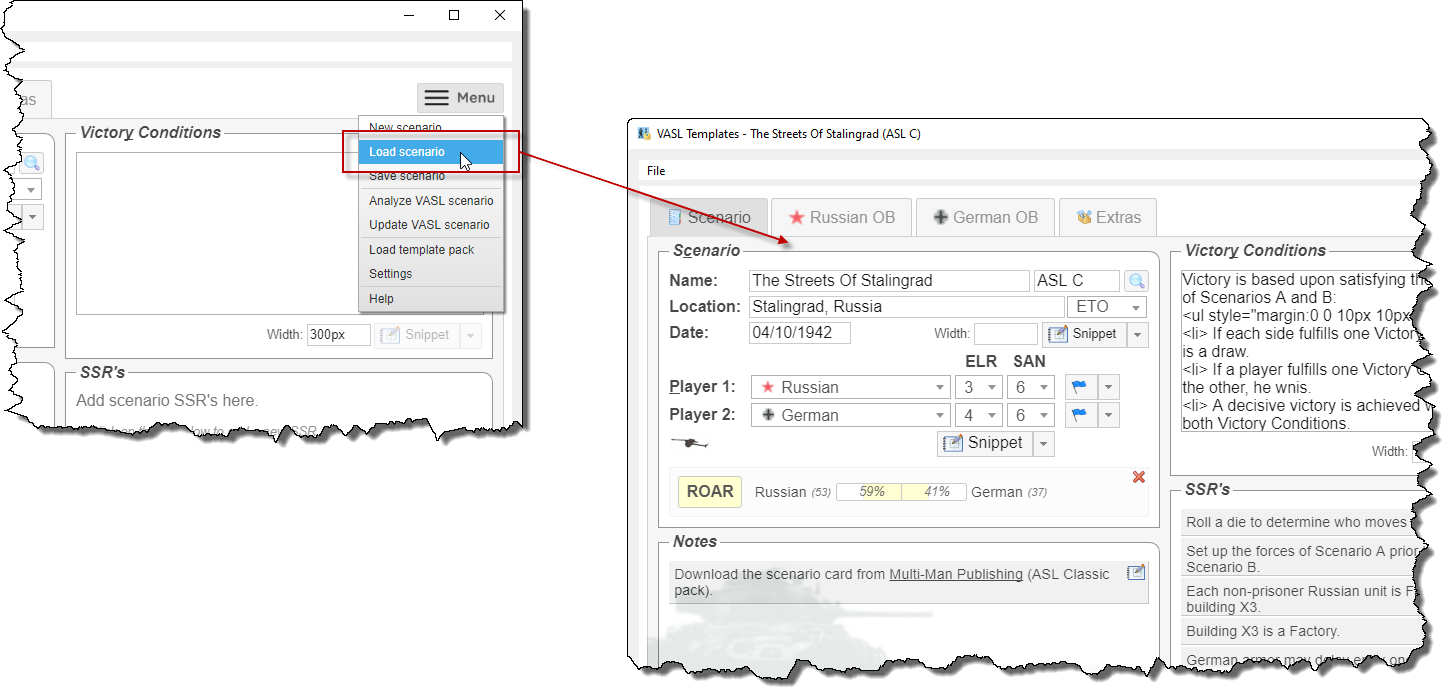
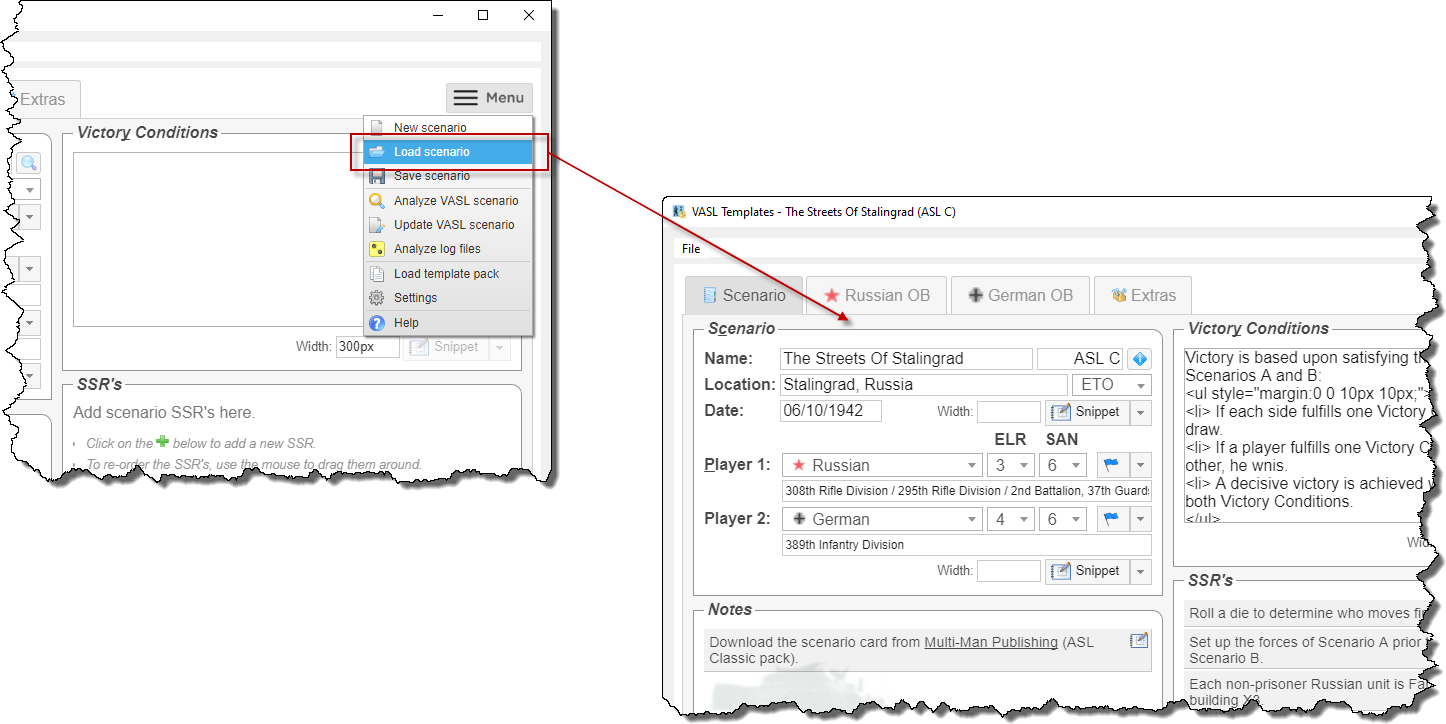
Updated the help.

diff --git a/vasl_templates/webapp/static/help/index.html b/vasl_templates/webapp/static/help/index.html
@@ -144,7 +144,9 @@ Configuring the program
 For the webdriver, download and unpack one of the following:
 <ul>
     <li> <a href="https://github.com/mozilla/geckodriver/releases">geckodriver</a> (you must have Firefox installed)
+        <div class="note"> Make sure to download the correct version (32- or 64-bit) for your browser (check the About box). </div>
     <li> <a href="http://chromedriver.chromium.org/downloads">chromedriver</a> (you must have Chrome installed)
+        <div class="note"> Make sure to download the version that corresponds to the version of Chrome you are running. </div>
 </ul>
 
 <h2> Setting up a scenario </h2>
@@ -152,11 +154,15 @@ For the webdriver, download and unpack one of the following:
 <p> <img src="images/quick-start/scenario-card.png" class="preview" style="float:right;">
 We'll set up <em>The Streets Of Stalingrad</em>, and the scenario card tells us that this is played on Board 1, so fire up VASL, add this board, then save the scenario somewhere (e.g. <tt>streets-of-stalingrad.vsav</tt>).
 <br clear=all>
+<br>
 
 <p> <img src="images/quick-start/load-scenario.png" class="preview" style="float:left;">
-In <em>vasl-templates</em>, open the save file for this scenario (<tt>The Streets Of Stalingrad (Scenario C).json</tt>; you'll find it in the <tt>examples/</tt> directory).
-<p> Browse through the tabs, and you'll see all the scenario details e.g. Victory Conditions, SSR's, setup instructions. The program also shows the latest results from <a href="http://www.jrvdev.com/ROAR/VER1/RecordByName.asp">ROAR</a>.
+In <em>VASL Templates</em>, open the save file for this scenario (<tt>The Streets Of Stalingrad (Scenario C).json</tt>; you'll find it in the <tt>examples/</tt> directory).
+<p> Browse through the tabs, and you'll see all the scenario details e.g. Victory Conditions, SSR's, setup instructions.
+<p> Click on the info icon in the top-right corner of the <em>Scenario</em> panel to get more detailed information about the scenario.
+<div class="info" style="float:right;"> This information is provided by the <a href="https://aslscenarioarchive.com">ASL Scenario Archive</a>. </div>
 <br clear=all>
+<br>
 
 <p> <img src="images/quick-start/update-scenario.png" class="preview" style="float:right;">
 We now want to create labels in the VASL scenario for all this information. Choose <em>Update VASL scenario</em> from the menu, and select the VASL scenario file you created earlier (e.g. <tt>streets-of-stalingrad.vsav</tt>). The program will now launch VASSAL to do the work, so be patient since it may take a minute or two, and you may see VASSAL momentarily appear on-screen.
@@ -167,12 +173,12 @@ In particular, note the data tables for the vehicles, which contain useful infor
 <h2> Including pictures in the labels </h2>
 
 <p> <img src="images/quick-start/user-settings.png" class="preview" style="float:right;">
-We can pretty-up the labels by including pictures in them. Open the <em>User Settings</em> dialog and turn on <em>Images in scenarios</em>.
+We can pretty-up the labels by including pictures in them. Open the <em>User Settings</em> dialog and turn on the <em>Images in scenarios</em> settings.
 <p> Update the VASL scenario again (as above), open it again in VASSAL, and you will see that the labels now include nationality flags, and the vehicle data tables show the counter images: <br>
 <img src="images/quick-start/images-in-labels.png" class="preview" style="margin:0.5em 0 0 2em;">
-<div class="warning"> Because images can't be stored inside a VASL scenario file, if you turn this option on, you must choose where VASSAL will get the images from:
+<div class="warning"> Because images can't be stored inside a VASL scenario file, if you turn these options on, you must choose where VASSAL will get the images from:
     <ul>
-        <li> <span style="border-bottom:1px solid #ccc;">From this program</span>: the <em>vasl-templates</em> program must be running before you open the scenario in VASSAL. If you are playing with someone online, they must have the program running as well.
+        <li> <span style="border-bottom:1px solid #ccc;">From this program</span>: the <em>VASL Templates</em> program must be running before you open the scenario in VASSAL. If you are playing with someone online, they must have the program running as well.
             <li> <span style="border-bottom:1px solid #ccc;">From the internet</span>: you must have a working internet connection when you open the scenario in VASSAL. There will be a short delay when opening the scenario, as VASSAL downloads the images.
     </ul>
 </div>
@@ -191,14 +197,16 @@ We can pretty-up the labels by including pictures in them. Open the <em>User Set
 
 <h2> Adding the scenario details </h2>
 
-<p> <img src="images/scenario.png" class="preview" style="width:20em;float:left;">
-First, we enter the basic details about the scenario.
-<p> Click on one of the <em>Snippet</em> buttons, and the program will generate an HTML snippet and put it into your clipboard, which you can then copy into a VASL label.
-<p> You can also click on the <em>Search ROAR</em> button, to look for a scenario in ROAR. The basic details for the scenario will be loaded, along with the latest results.
+<p> <img src="images/asa-search.png" class="preview" style="width:30em;float:left;">
+We start by entering the basic scenario details, such as its name, location and date. The easiest way to do this is to search the <a href="https://aslscenarioarchive.com">ASL Scenario Archive</a>.
+<p> Click on the search button, enter the name of the scenario, and once you've found the correct one, click on <em>Import</em> to transfer the details into <em>VASL Templates</em>.
+<p> If the <em>Downloads</em> button is enabled, this means that somebody has contributed the entire scenario setup and/or VASL save file, and these are available for download.
+<div class="hint" style="float:right;width:30em;"> The scenario card may list special rules and errata, and have screenshots of the map setup, all of which will help you set up your scenario correctly. </div>
 <br clear="all">
 
 <p> <img src="images/draggable-overlays.png" class="preview" style="width:20em;float:right;">
-To create a label in VASL, open the <em>Draggable Overlays</em> window, and drag a label onto the main window.
+Once the scenario details are in, click on one of the <em>Snippet</em> buttons, and the program will generate an HTML snippet and put it into your clipboard, which you can then copy into a VASL label.
+<p> To create a label in VASL, open the <em>Draggable Overlays</em> window, and drag a label onto the main window.
 <p> Labels come in two parts, which are accessible via the right-click menu, or press Ctrl-L and Ctrl-2 to access each one. I always just use the first line, so I delete everything in line 2.
 <p> The thick black box indicates that the label is selected. If you click elsewhere on the main window, it goes away, and the label will remain in place even if you click on it, or try to drag it. To select it again, Shift-click somewhere in the box, and you will be able to move it around, or edit it. This can sometimes be difficult to find, since it's not visible on-screen, but it will be in the middle (vertically and horizontally) of the label.
 <br clear="all">
@@ -206,6 +214,8 @@ To create a label in VASL, open the <em>Draggable Overlays</em> window, and drag
 <p> <img src="images/scenario-vasl.png" class="preview" style="width:20em;float:left;">
 Once you have a label in VASL, copy the HTML snippet generated above into it.
 <p> Repeat the process to add the ELR and SAN for both players, and you will now have two labels that you can position in the VASL scenario.
+
+<br><br>
 
 <h4 style="clear:none;"> Automatically adding labels to the VASL scenario </h4>
 <p>Once you've got the hang of adding labels to your VASL scenario, you can get <em>VASL Templates</em> to do it automatically for you. After entering all the scenario details, choose <em>Update VASL scenario</em> from the menu, select the <tt>.vsav</tt> file you want to update, and all the labels will be inserted into the scenario (or updated, if they're already there).
@@ -253,7 +263,7 @@ Finally, if special support weapons such as PF and BAZ are in play, snippets are
 
 <h4> Analyzing a VASL scenario </h4>
 
-<p> If you have already set up the VASL scenario, you can choose <em>"Analyze VASL scenario"</em> from the menu, and the program will scan the <tt>.vsav</tt> file for vehicles and ordnance, and automatically create entries for each one. Only counters from the two configured nationalities will be imported, so make sure you set these first.
+<p> If you have already set up the VASL scenario, you can choose <em>Analyze VASL scenario</em> from the menu, and the program will scan the <tt>.vsav</tt> file for vehicles and ordnance, and automatically create entries for each one. Only counters from the two configured nationalities will be imported, so make sure you set these first.
 
 <h2> Extra templates </h2>
 
@@ -279,31 +289,64 @@ or a <tt>width</tt> and/or <tt>height</tt> parameter to explicitly set the image
 
 <div class="info"> VASSAL caches images (which can't be turned off), so if you're making changes that don't seem to be having any effect, try restarting VASSAL. </div>
 
-<br clear="all">
-
 <h2> Suggested workflow </h2>
 
-<p>
-<ul>
+<p> <ul>
     <li> Set up the VASL scenario, with the boards and counters.
-    <li> In <em>VASL Templates</em>, set the two player nationalities, then analyze the VASL scenario, to automatically create entries for vehicles and ordnance.
-    <li> Enter the other scenario details e.g. the scenario name and date, Victory Conditions and SSR's, setup instructions.
-    <li> Update the VASL scenario file, to automatically create labels for all the scenario details and vehicles/ordnance.
+    <li> In <em>VASL Templates</em>, search the ASL Scenario Archive, and use it to get your scenario configuration started.
+    <li> Enter the other scenario details e.g. Victory Conditions, SSR's and setup instructions.
+    <li> Analyze the VASL scenario, to automatically create entries for vehicles and ordnance.
+    <li> Update the VASL scenario, to automatically create labels for all the scenario details and vehicles/ordnance.
 </ul>
+
+<p> <img src="images/asa-upload.png" class="preview" style="width:300px;float:left;">
+When the scenario has been completed and checked, you can contribute it back to the community by uploading it to the <a href="https://aslscenarioarchive.com">ASL Scenario Archive</a>, where it will be made available to everyone for download.
+<p> Just add your VASL scenario file (<tt>.vsav</tt>), a screenshot will be automatically generated (or you can add your own), then click <em>Upload</em>.
+<div class="info" style="float:right;">For copyright reasons, some details will be removed <br> from the upload e.g. the Victory Conditions and SSR's. </div>
+<br clear="all">
+
+<h2> Analyzing log files </h2>
+
+<p> <img src="images/lfa.png" class="preview" style="width:400px;float:right;">
+As an added bonus, <em>VASL Templates</em> can also analyze VASL log files, to generate a report on how the game went. Choose <em>Analyze log files</em> from the menu, and add one or more VASL log files.
+<p> You will be shown a report showing distribution graphs for the dice, and how the dice went over time. You can filter by the type of dice roll (e.g. only Morale Checks or To Kill rolls), as well as change the window size for moving averages. You can even download the data as a CSV, for further analysis!
+<p> If there is more than one log file, you can also drill down into each individual session: <br>
+<img src="images/lfa-files.png" class="preview" style="margin:0.5em 0 0 2em;width:200px;">
+<p> <img src="images/lfa-hotness.png" class="preview" style="width:300px;float:right;">
+The report also calculates <em>"hotness"</em>, which is a measure of how hot your dice were. The more low rolls you make, the higher your hotness score, while rolling high makes it go down.
+<p> So if you lose, you now have some hard numbers to back you up when you blame the dice <img src="images/smilies/cool.gif">
+
+<br clear="all">
 
 <h2> Configuring the program </h2>
 
-<h4> Showing VASL counter images in the UI </h4>
+<img src="images/user-settings.png" class="preview" style="width:300px;float:right;">
 
-<p> If you want VASL counter images to appear in the UI, you need to tell the program where to find the VASL module (i.e. the <tt>vasl-X.X.X.vmod</tt> file you load into VASSAL):
-<ul>
-<li> If you are running the Windows desktop application, open the <em>Server settings</em> dialog from the <em>File</em> menu and configure it there.
-<li> If you are running the web server directly, create a file called <tt>site.cfg</tt> in the <tt>$/config/</tt> directory and configure it there (there is an example file you can rename and edit).
+<h4 style="clear:none;"> VASL user name</h4>
+<p> Configure your VASL user name here, to have it always shown first when analyzing VASL log files.
+
+<h4 style="clear:none;"> HTML snippet font </h4>
+<p> This setting lets you change the font, and its size, used in VASL labels.
+
+<h4 style="clear:none;"> Auto-create <em>National Capabilities</em> labels </h4>
+<p> Turn this on to automatically create labels that list the national capabilities for both sides when updating a VASL scenario.
+
+<h4 style="clear:none;"> Hide unavailable multi-applicable notes </h4>
+<p> Turn this on to completely omit vehicle/ordnance multi-applicable notes that haven't been set up (instead of showing them as <em>"unavailable"</em>).
+
+<h4 style="clear:none;"> Confirm settings before updating scenarios </h4>
+<p> Turn this on to show the <em>User Settings</em> dialog before updating a VASL scenario. This is useful if you are often creating VASL setups with different settings, and gives you a chance to make sure they are correct.
+
+<br><br>
+
+<h4> Images in scenarios </h4>
+<p> Images cannot be stored in a VASL scenario file, so they must stored elsewhere, which means that VASL needs to be told where to get them from:
+<ul style="font-size:90%;">
+    <li> <em>From this program</em>: the <em>VASL Templates</em> program must be running before you open the scenario in VASSAL. If you are playing with someone online, they must have the program running as well.
+    <li> <em>From the internet</em>: you must have a working internet connection when you open the scenario in VASSAL. There will be a short delay when opening the scenario, as VASSAL downloads the images.
 </ul>
-<p> Once you've configured the VASL module, if you want to also show VASL counter images in the OB snippets that you copy in the VASL scenario, turn this on in the <em>User settings</em> dialog from the main application menu.
 
 <h4> Show Chapter H vehicle/ordnance notes as images </h4>
-
 <p> If you have set up the <a href="#" onclick="select_tab('chapterh');">Chapter H vehicle/ordnance notes</a> as HTML, it may not be possible to get the layout you want, since VASSAL's HTML engine is very old and doesn't support many HTML/CSS features. To work around this, this option tells <em>VASL Templates</em> to render the HTML itself (using a modern browser) and send it as an image to VASSAL, which is slower but gives better results.
 
 </div>
@@ -480,8 +523,6 @@ The tests use <a href="http://pytest.org">pytest</a> and <a href="https://www.se
 pytest --webdriver chrome --headless
 </div>
 <p> Note that since <tt>pylint</tt> is run as part of these tests, this should be done from the root directory of the repo.
-
-<div class="warning"> Internet Explorer is also supported as a WebDriver, but due to differences in the way it works, some tests are currently failing for this. </div>
 
 <h2> Compiling the VASSAL shim </h2>
 

diff --git a/vasl_templates/webapp/templates/user-settings-dialog.html b/vasl_templates/webapp/templates/user-settings-dialog.html
@@ -1,7 +1,7 @@
 <div id="user-settings" style="display:none;">
 
     <div class="row" style="display:flex;align-items:center;">
-        <label for="vasl-username" style="display:inline-block;width:8.75em;"> VASL username: </label>
+        <label for="vasl-username" style="display:inline-block;width:8.75em;"> VASL user name: </label>
         <input type="text" name="vasl-username" style="flex:1;">
     </div>
 

diff --git a/vasl_templates/webapp/static/help/main.css b/vasl_templates/webapp/static/help/main.css
@@ -54,3 +54,8 @@ div.warning {
     background: url(images/warning.gif) 2px 2px no-repeat ;
     font-size: 80% ; font-style: italic ;
 }
+
+ul { list-style-image: url("images/bullet.png") ; }
+ul ul { list-style-image: url("images/bullet2.png") ; }
+ul ul ul { list-style-image: url("images/bullet3.png") ; }
+li .note { font-size: 80% ; font-style: italic ; }
